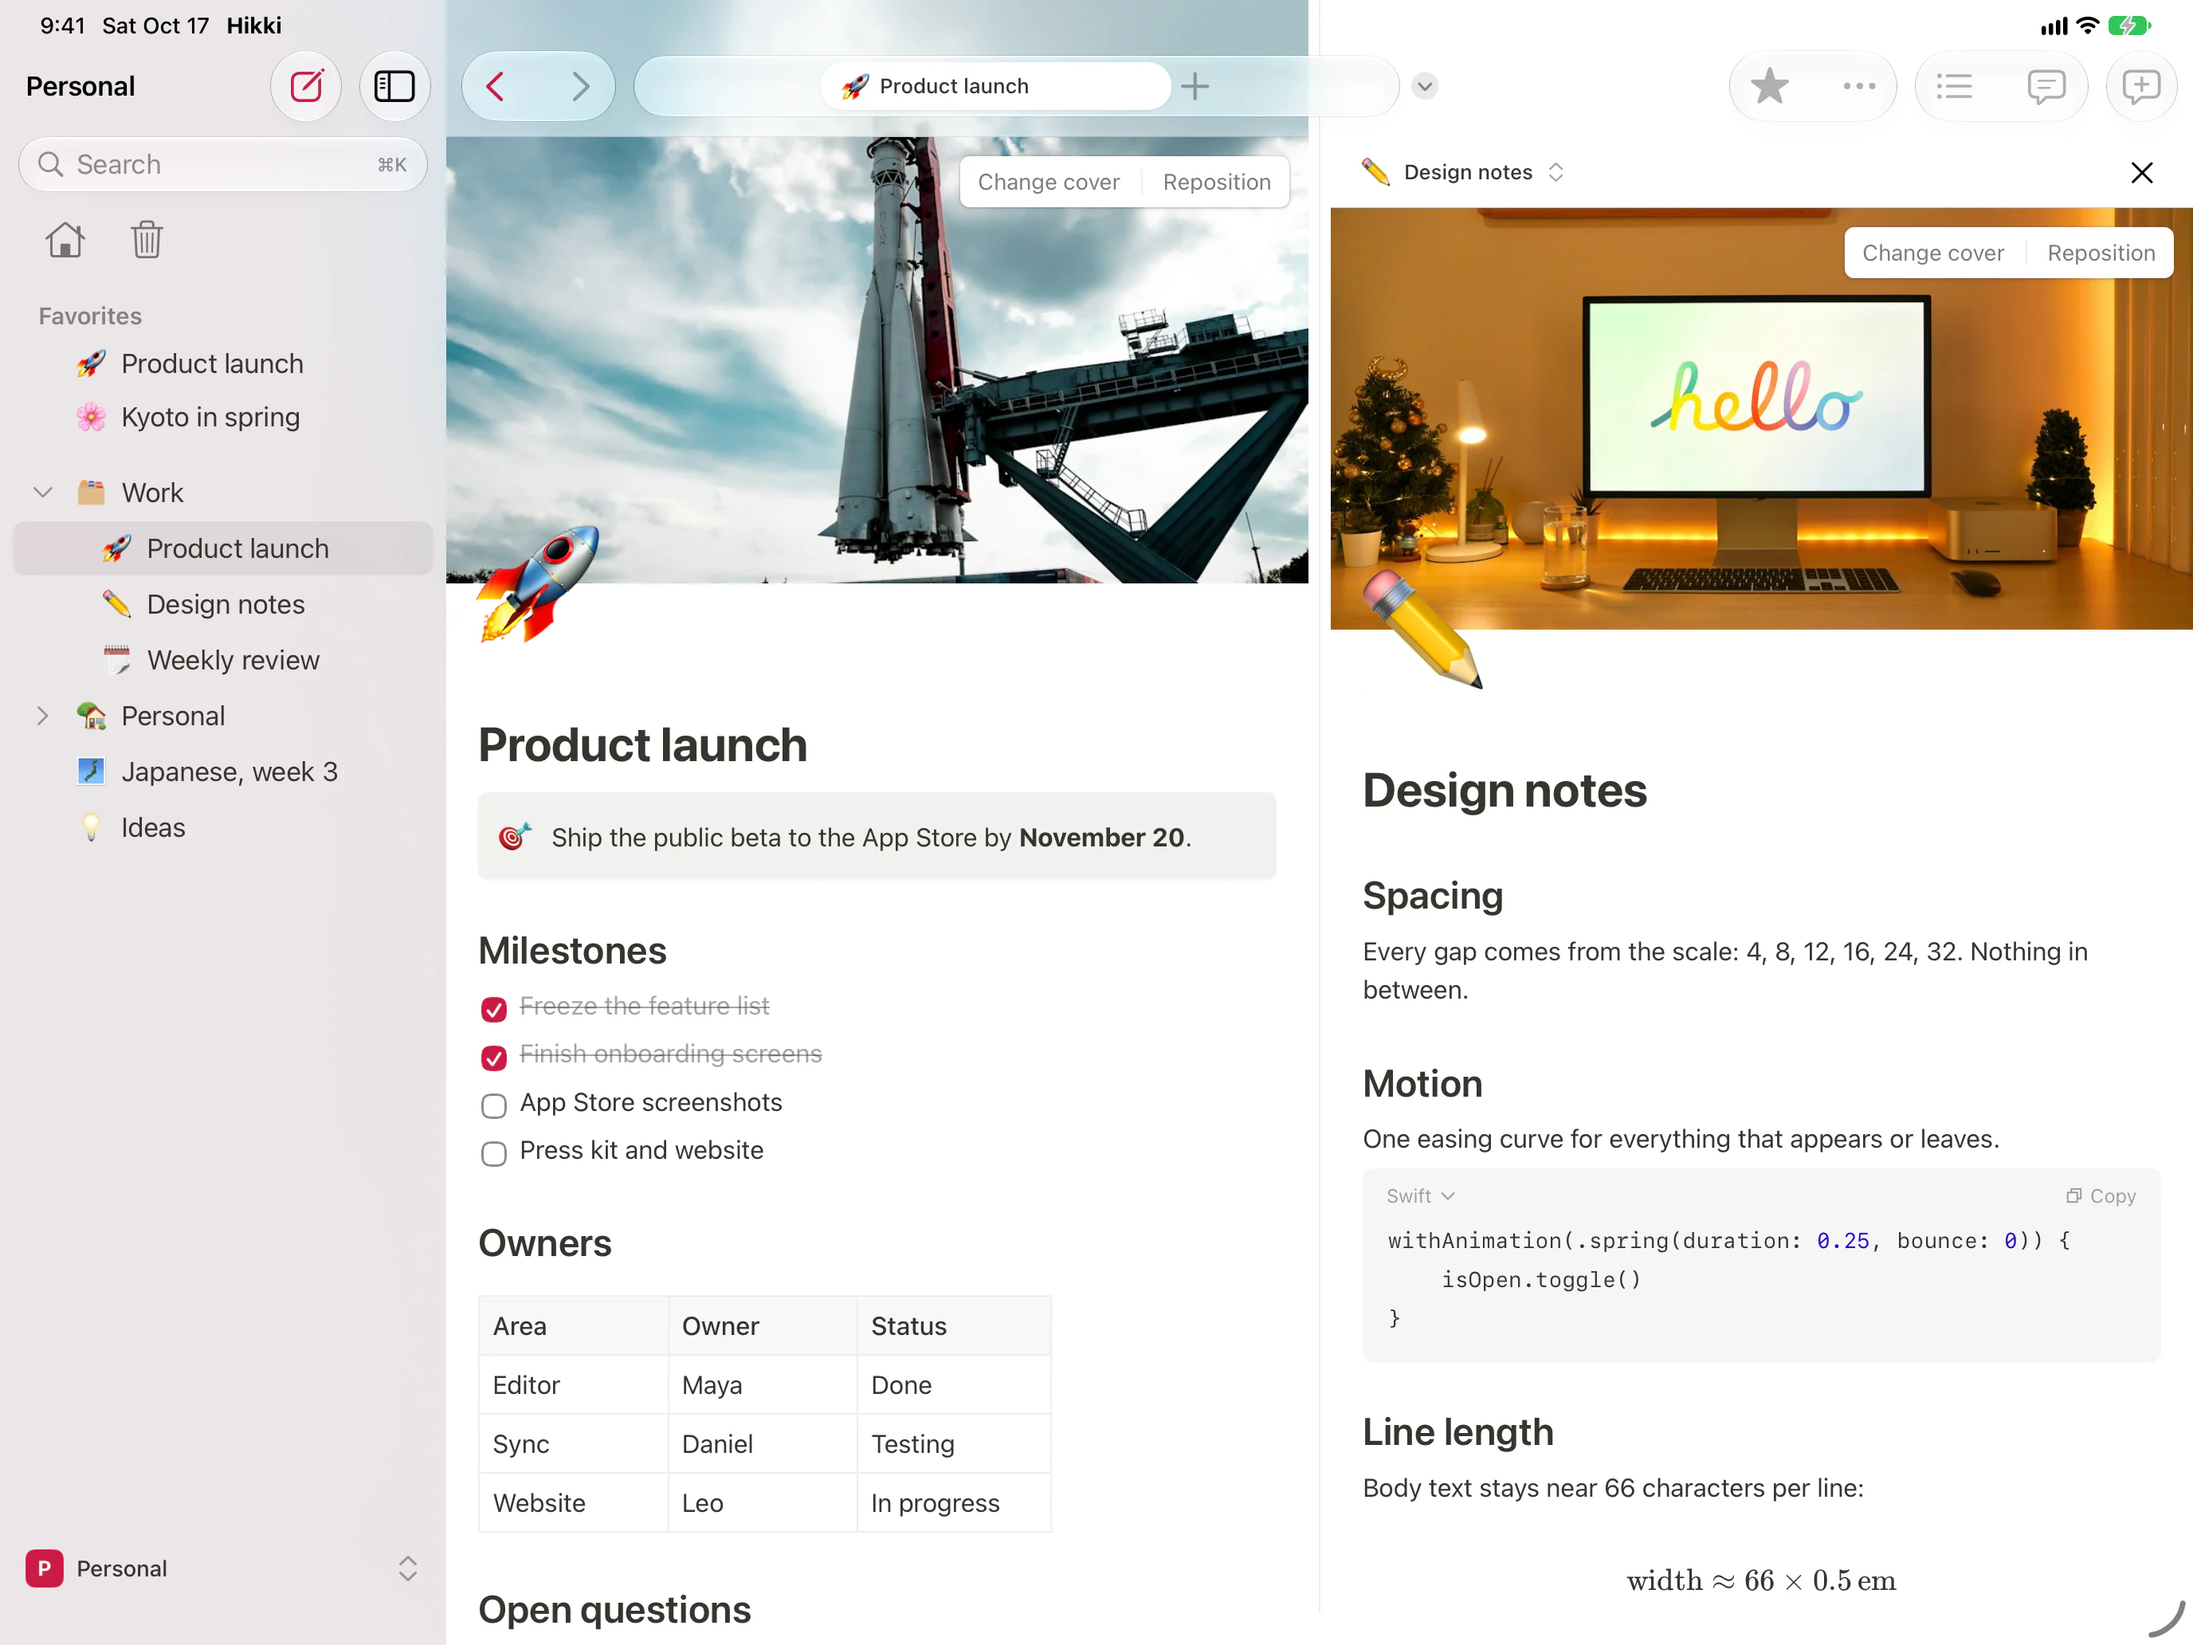
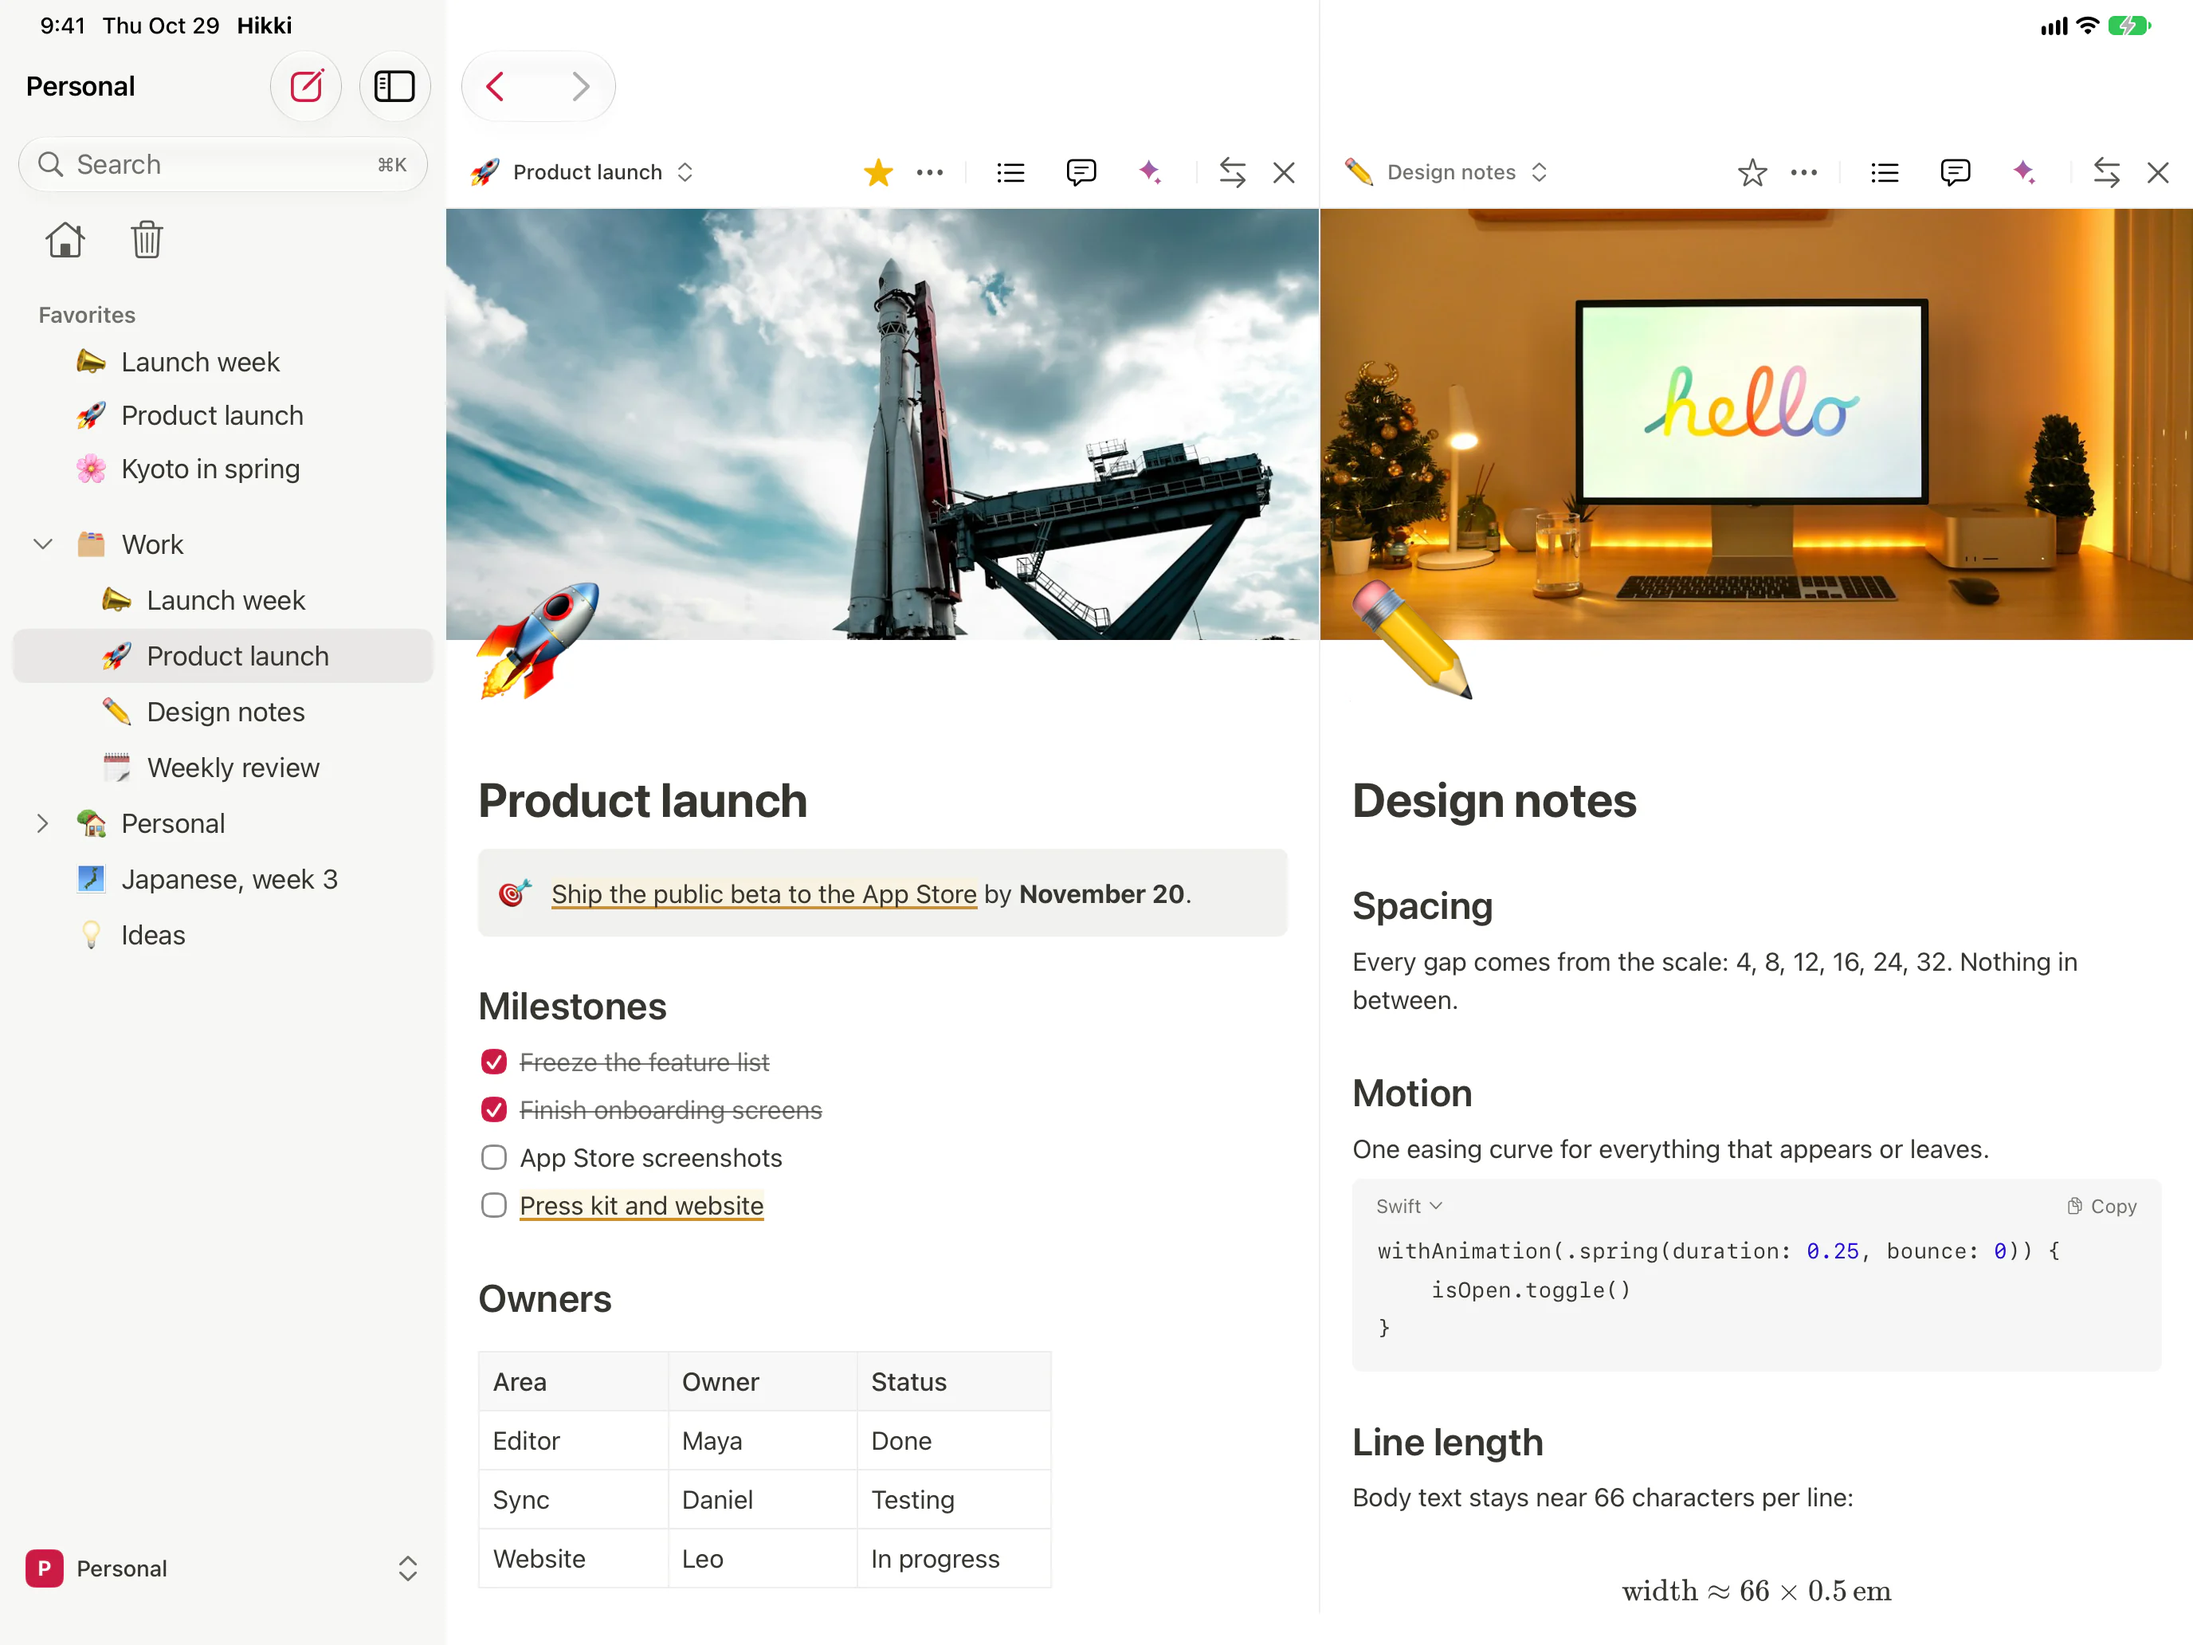
Website: the lock shot keeps the page's margins, a fresh iPad shot (no tab strip), its caption without tabs

diff --git a/apps/website/src/routes/index.tsx b/apps/website/src/routes/index.tsx
@@ -202,7 +202,7 @@ function Devices() {
           class="w-full rounded-[18px]"
         />
         <figcaption class="text-caption">
-          <strong>iPad.</strong> Sidebar, tabs and two pages side by side.
+          <strong>iPad.</strong> The sidebar and two pages side by side.
         </figcaption>
       </figure>
       <div class="cell flex flex-col justify-between gap-8 p-8 md:p-10 lg:col-span-4">
@@ -297,7 +297,7 @@ function Features() {
         shot={{
           name: 'lock',
           width: 1400,
-          height: 740,
+          height: 761,
           alt: "A locked recipe page, the lock in the window's toolbar beside the star."
         }}
       />
